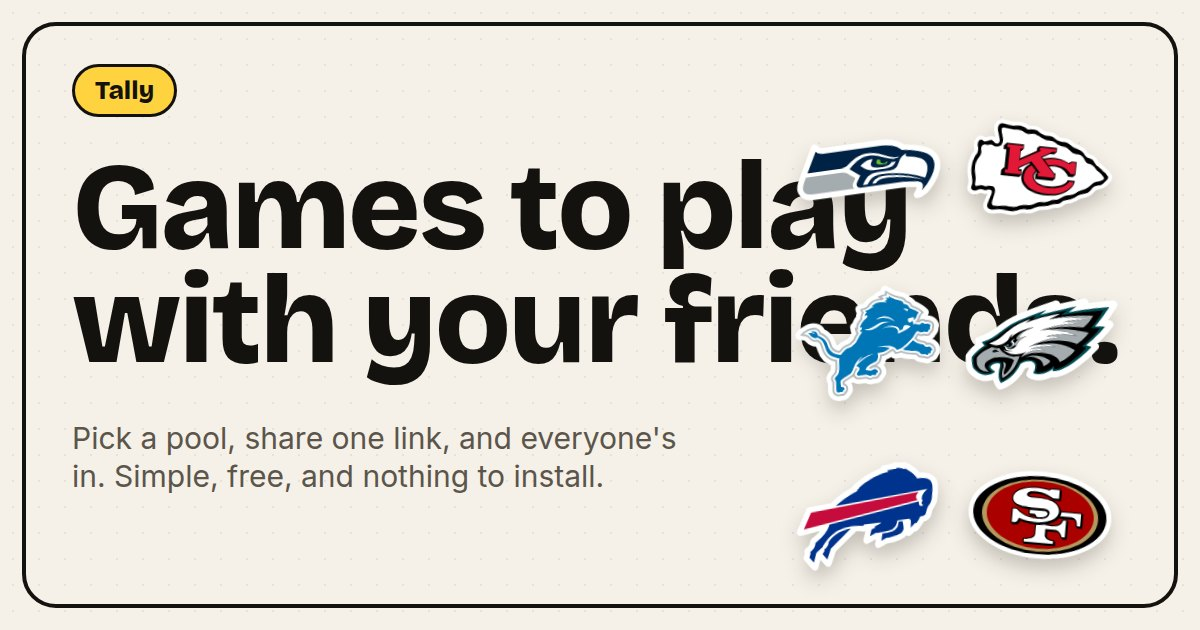
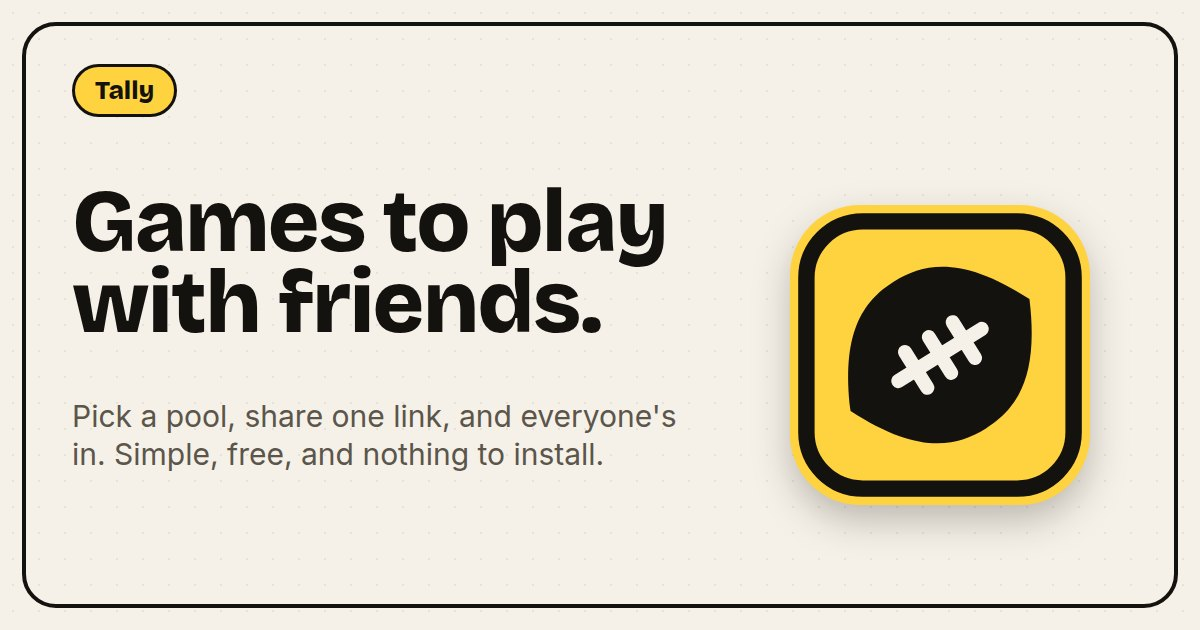
Make the shared link's card carry its weight
"No signup — just your name" was painted into og.jpg itself, which is why it
survived every copy edit, and it stopped being true the moment an account grew
entries. Gone. In its place the confidence ladder is drawn rather than
described — 5·4·3·2·1, the thing that makes High Five itself — which reads at
the thumbnail size iMessage actually renders, and the one line left answers
what the ladder cannot: most points over the season wins.

The brand card was worse than stale, it was broken: "with your friends." ran
underneath the Lions and the Eagles. It carries the Tally mark now instead of
NFL logos, which is also the honest picture for a card that is not about one
sport, and the headline is capped to its own column with nowrap so a copy edit
that outgrows the space shows up in the render instead of sliding under the
artwork.

Sharing passes the URL alone. Anything in `text` gets typed into the message
body on top of the card, which is not what "share the link" should mean.

The same retired claim lived in the Worker's fallback description, the site's
meta description and the landing hero, where "No accounts" argued with the
welcome screen's "one account each". All four now say the same thing.

Claude-Session: https://claude.ai/code/session_01Aue8HapFCaUsLtZJCRy6xb

Changed region(s): [[0.0617, 0.181, 0.9558, 0.9048]]

diff --git a/scripts/build-og.ts b/scripts/build-og.ts
@@ -15,21 +15,32 @@ interface Card {
   chip: string;
   head: string;
   body: string;
+  /** The confidence ladder, drawn rather than described. */
+  ladder?: boolean;
+  /** Team stickers suit a pool that is about the NFL; the brand card is not about one sport. */
+  art: "stickers" | "mark";
 }
 
-/** The pool's own card, and the one the Tally link unfurls with. */
+/**
+ * The pool's own card, and the one the Tally link unfurls with. iMessage renders these small and
+ * puts the page title underneath, so the job is to be legible at thumbnail size and to say what
+ * the game *is* — hence the ladder, which explains High Five faster than a sentence can.
+ */
 const cards: Card[] = [
   {
     file: "og.jpg",
     chip: "🏈 High Five · a Tally pool",
     head: "Pick five.<br>Rank them.",
-    body: "Pick five winners a week and rank them 1–5. Nail your #1 for 5 points. No signup — just your name.",
+    body: "Most points over the season wins.",
+    ladder: true,
+    art: "stickers",
   },
   {
     file: "og-tally.jpg",
     chip: "Tally",
-    head: "Games to play<br>with your friends.",
+    head: "Games to play<br>with friends.",
     body: "Pick a pool, share one link, and everyone's in. Simple, free, and nothing to install.",
+    art: "mark",
   },
 ];
 
@@ -39,8 +50,15 @@ const template = (c: Card) => `<!doctype html><html><head><style>
 html,body{margin:0}
 body{width:1200px;height:630px;background:#F6F1E8;background-image:radial-gradient(rgba(20,18,15,.07) 1.5px,transparent 1.5px);background-size:26px 26px;font-family:InterV,system-ui,sans-serif;color:#14120F;position:relative;overflow:hidden}
 .chip{position:absolute;left:72px;top:64px;display:inline-flex;align-items:center;gap:10px;border:3px solid #14120F;border-radius:999px;background:#FFD23F;padding:8px 20px;font-family:Bricolage;font-weight:800;font-size:26px}
-h1{position:absolute;left:72px;top:150px;margin:0;font-family:Bricolage;font-weight:800;font-size:124px;line-height:.92;letter-spacing:-.02em;font-variation-settings:"wdth" 96}
-p{position:absolute;left:72px;top:420px;margin:0;width:640px;font-size:30px;line-height:1.25;color:#5B554B}
+h1{position:absolute;left:72px;top:150px;margin:0;width:700px;font-family:Bricolage;font-weight:800;font-size:124px;line-height:.92;letter-spacing:-.02em;font-variation-settings:"wdth" 96}
+h1.sm{font-size:88px;top:182px;white-space:nowrap}
+.mark{position:absolute;right:110px;top:205px;width:300px;height:300px;filter:drop-shadow(0 16px 18px rgba(20,18,15,.25))}
+p{position:absolute;left:72px;top:398px;margin:0;width:620px;font-size:30px;line-height:1.25;color:#5B554B}
+.ladder{position:absolute;left:72px;top:458px;display:flex;gap:16px}
+.b{width:84px;height:84px;border:4px solid #14120F;border-radius:20px;background:#fff;display:flex;flex-direction:column;align-items:center;justify-content:center;font-family:Bricolage;font-weight:800;line-height:1}
+.b.top{background:#FFD23F}
+.b .n{font-size:38px}
+.b .u{margin-top:4px;font-size:13px;font-weight:700;letter-spacing:.08em;color:#5B554B}
 .row{position:absolute;right:56px;top:96px;width:380px;display:flex;flex-wrap:wrap;gap:22px;justify-content:center;align-content:flex-start}
 .s{width:150px;height:150px;display:flex;align-items:center;justify-content:center;filter:drop-shadow(0 10px 10px rgba(20,18,15,.22))}
 .s img{max-width:150px;max-height:150px}
@@ -48,9 +66,12 @@ p{position:absolute;left:72px;top:420px;margin:0;width:640px;font-size:30px;line
 </style></head><body>
 <div class="frame"></div>
 <div class="chip">${c.chip}</div>
-<h1>${c.head}</h1>
+<h1${c.art === "mark" ? ' class="sm"' : ""}>${c.head}</h1>
 <p>${c.body}</p>
-<div class="row">${stickers.map(([a, r]) => `<div class="s" style="transform:rotate(${r}deg)"><img src="${logo(a, existsSync(path.join(ROOT, "public/logos", a + ".svg")) ? "svg" : "png")}"></div>`).join("")}</div>
+${c.ladder ? `<div class="ladder">${[5, 4, 3, 2, 1].map((n) => `<div class="b${n === 5 ? " top" : ""}"><span class="n">${n}</span><span class="u">PTS</span></div>`).join("")}</div>` : ""}
+${c.art === "stickers"
+  ? `<div class="row">${stickers.map(([a, r]) => `<div class="s" style="transform:rotate(${r}deg)"><img src="${logo(a, existsSync(path.join(ROOT, "public/logos", a + ".svg")) ? "svg" : "png")}"></div>`).join("")}</div>`
+  : `<img class="mark" src="file://${path.join(ROOT, "public/icon.svg")}">`}
 </body></html>`;
 
 const executablePath = process.env.PW_CHROMIUM_PATH ?? ["/opt/pw-browsers/chromium"].find((p) => existsSync(p));

diff --git a/index.html b/index.html
@@ -12,7 +12,7 @@
       the pool's own name and card. Nothing here names a host — the Worker makes URLs absolute
       against whatever host served the page.
     -->
-    <meta name="description" content="Tally is where you and your friends play simple, free pools. Pick a game, share a link, and everyone's in — no signup, no app to install." />
+    <meta name="description" content="Tally is where you and your friends play simple, free pools. Pick a game, share a link, and everyone's in — nothing to install." />
     <meta property="og:type" content="website" />
     <meta property="og:site_name" content="Tally" />
     <meta property="og:title" content="Tally — pools to play with your friends" />

diff --git a/src/screens/PickFlow.tsx b/src/screens/PickFlow.tsx
@@ -143,10 +143,11 @@ function PickFlowInner({ week }: { week: number }) {
 
   const share = async () => {
     const url = poolUrl();
-    const title = boot.data?.poolName ?? "High Five";
     try {
       if (navigator.share) {
-        await navigator.share({ title, text: `Join our NFL pool — pick five games a week and rank them.`, url });
+        // The link alone: iMessage and the rest turn it into the card, and anything passed as
+        // `text` would be typed into the message body on top of it.
+        await navigator.share({ url });
         return;
       }
       await navigator.clipboard.writeText(url);

diff --git a/worker/unfurl.ts b/worker/unfurl.ts
@@ -30,7 +30,7 @@ const setContent = (value: string) => ({
 
 export function withUnfurlTags(res: Response, origin: string, pool: PoolMeta): Response {
   const title = `${pool.poolName} — a ${pool.appName} pool`;
-  const description = poolTypeByName(pool.poolType)?.blurb ?? `A ${pool.appName} pool. No signup, just your name.`;
+  const description = poolTypeByName(pool.poolType)?.blurb ?? `A ${pool.appName} pool — play it with your friends.`;
   return new HTMLRewriter()
     // Installed to a home screen, a pool is its own app: its name, opening at its own path.
     .on('link[rel="manifest"]', {

diff --git a/test/worker/unfurl.test.ts b/test/worker/unfurl.test.ts
@@ -56,7 +56,7 @@ describe("link unfurl tags", () => {
 
     // An unknown pool type still gets a sentence rather than the site's own pitch.
     const other = await withUnfurlTags(html(), "https://pool.example.com", pool({ poolType: "Shuffleboard" })).text();
-    expect(other).toContain('property="og:description" content="A Tally pool. No signup, just your name."');
+    expect(other).toContain('property="og:description" content="A Tally pool — play it with your friends."');
   });
 
   it("leaves the site's own page saying Tally, and only absolutises its URLs", async () => {

diff --git a/src/screens/Landing.tsx b/src/screens/Landing.tsx
@@ -45,7 +45,7 @@ export function Landing() {
           </h1>
           <p className="mt-5 max-w-[46ch] text-[clamp(1.05rem,2.4vw,1.3rem)] leading-snug text-ink-2">
             Tally hosts the pools you already argue about — and a few you haven't tried yet. Pick a game, share one
-            link, and everyone's in. No accounts, no downloads, no spreadsheet.
+            link, and everyone's in. Nothing to install, nothing to keep in a spreadsheet.
           </p>
           <ul className="mt-6 flex flex-wrap gap-2">
             {FACTS.map((fact) => (
